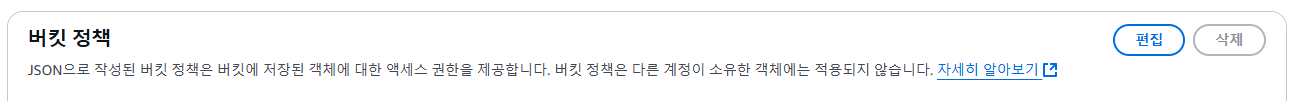
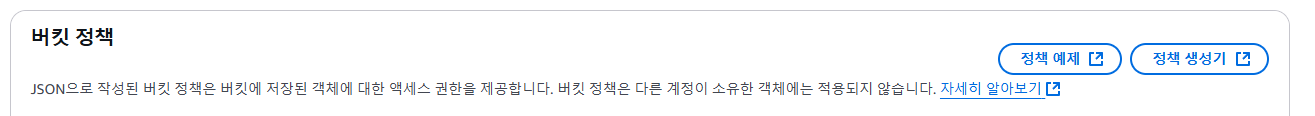
s3 버킷 정책 편집

Changed region(s): [[0.0, 0.2376, 0.9861, 0.8614], [0.0, 0.0891, 0.9861, 0.1188], [0.0, 0.2376, 0.0924, 0.4752]]

diff --git a/1-S3.md b/1-S3.md
@@ -62,20 +62,22 @@
 
 1. 해당 버킷의 "권한" 탭을 선택한다.  
    ![버킷 권한](images/image-5-access.png)
-2. "버킷 정책"항목의 "편집"버튼을 클릭한다.
+2. "버킷 정책"항목의 "정책 생성기"버튼을 클릭한다.
    ![버킷 정책 편집](images/image-6-bucket-policy.png)
-3. "버킷 정책"에서 "문 편집"의 "+ 새 문 추가"버튼을 클릭한다.
-   ![새 구문 추가](images/image-7-add-statement.png)
-4. "서비스 선택" 검색 필드에 "S3"입력한다. 사용가능 목록에서 ```S3```를 선택한다.
-   ![s3 서비스 선택](images/image-8-s3-statement.png)
-5. 입력창에 getObject를 입력하고, "엑세스 수준"에서 ```GetObjwxt```를 선택한다.
-   ![엑세스 수준 선택](images/image-9-getobject.png)
-6. "리소스 추가"에서 "추가"버튼을 클릭하고, "리소스 추가" 팝업에서 "리소스 유형"에서 ```object```를 선택하고, 리소스 ARN에 버킷이름과 리소스를 정의한다. 리소스 ARN은 ```arn:aws:s3:::s3-image-bucket2404/*```로 설정한다.
-   ![리소스 추가](images/image-10-resource.png)
-7. "버킷 정책" 구문에서 "Principal" 속성의 값을 ```*```로 변경한다.
-   ![Principal 속성](images/image-11-principal.png)
-8. "변경 사항 저장"버튼을 클릭해서 변경 내용을 저장한다. 
-   ![버킷 정책](images/image-12-statement.png)
+3. "AWS Policy Generator"화면의 "Add Statement(s)"에서 
+   1. "Select Type of Policy"에서 ```S3 Bucket Policy```를 선택한다.
+   ![정책 타입](images/image-7-policy-type.png)
+   2. "Add Stetement(s)"에서 Principal 입력필드의 값을 ```*```으로 설정한다. 
+   3. "Add Stetement(s)"의 Actions 셀렉터에서 ```getObject```,```putObject```,```deleteObject``` 3개를 선택한다. 
+   4. "Add Stetement(s)"의 Amazon Resource Name (ARN)의 입력필드의 값을 ```arn:aws:s3:::s3-image-bucket-2404/*```로 설정한다.
+   5. "Add Stetement(s)"에서 "Add Statement" 버튼을 클릭하고, 아래의 설정 내용을 확인한다.
+   ![s3 구문 작성](images/image-8-s3-statement.png)
+   ![s3 구문 확인](images/image-9-s3-statements.png)
+   6. "Generate Policy"에서 "Generate Policy"버튼을 클릭해서 생성된 구문을 확인하고 복사한다.
+   ![생성된 구문확인](images/image-10-s3-statements.png)
+4. 정책 입력창에 복사한 내용을 붙여넣기 한다.
+   ![s3 구문 확인](images/image-11-s3-statements.png)
+5. "변경 사항 저장"버튼을 클릭해서 변경 내용을 저장한다. 
 
 #### 업로드 권한 설정하기
 
